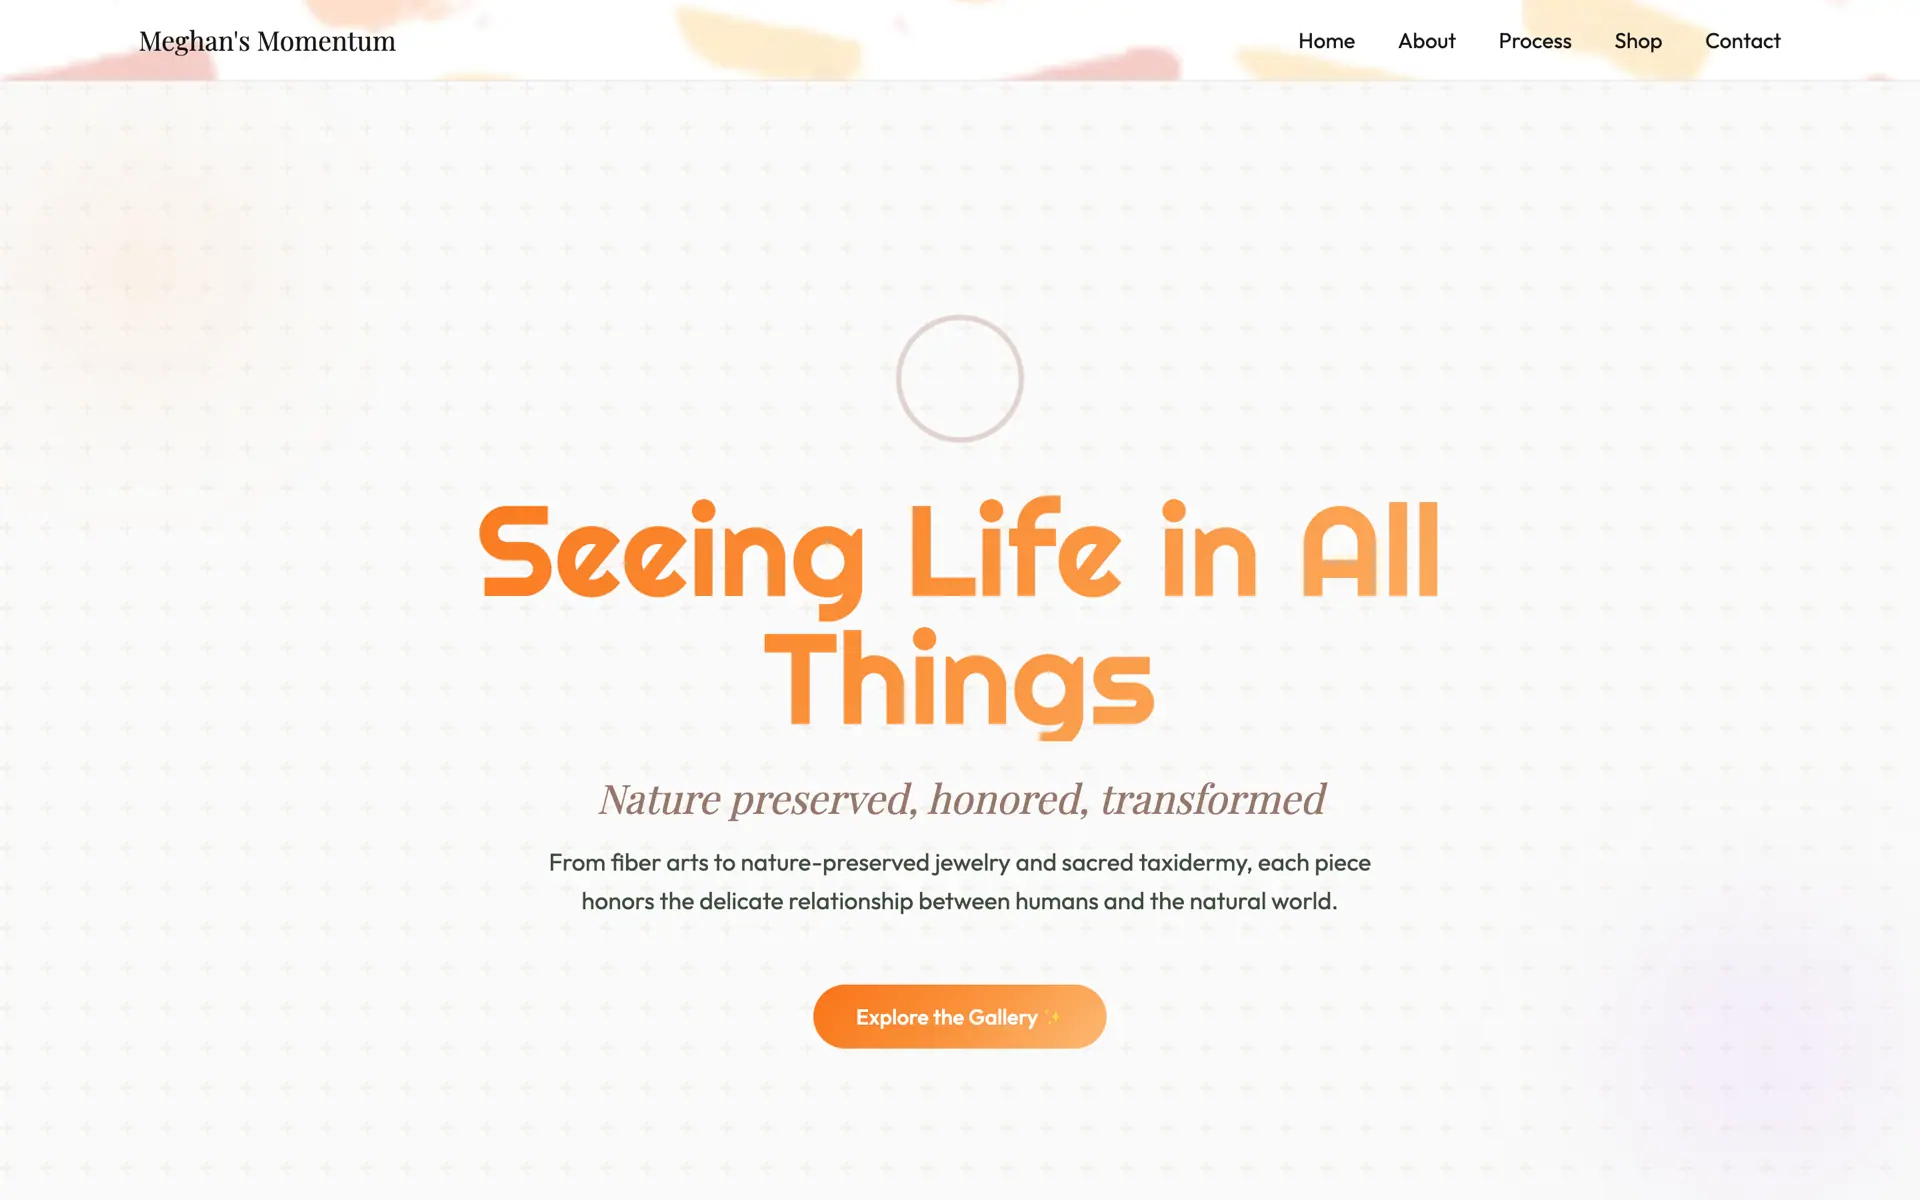
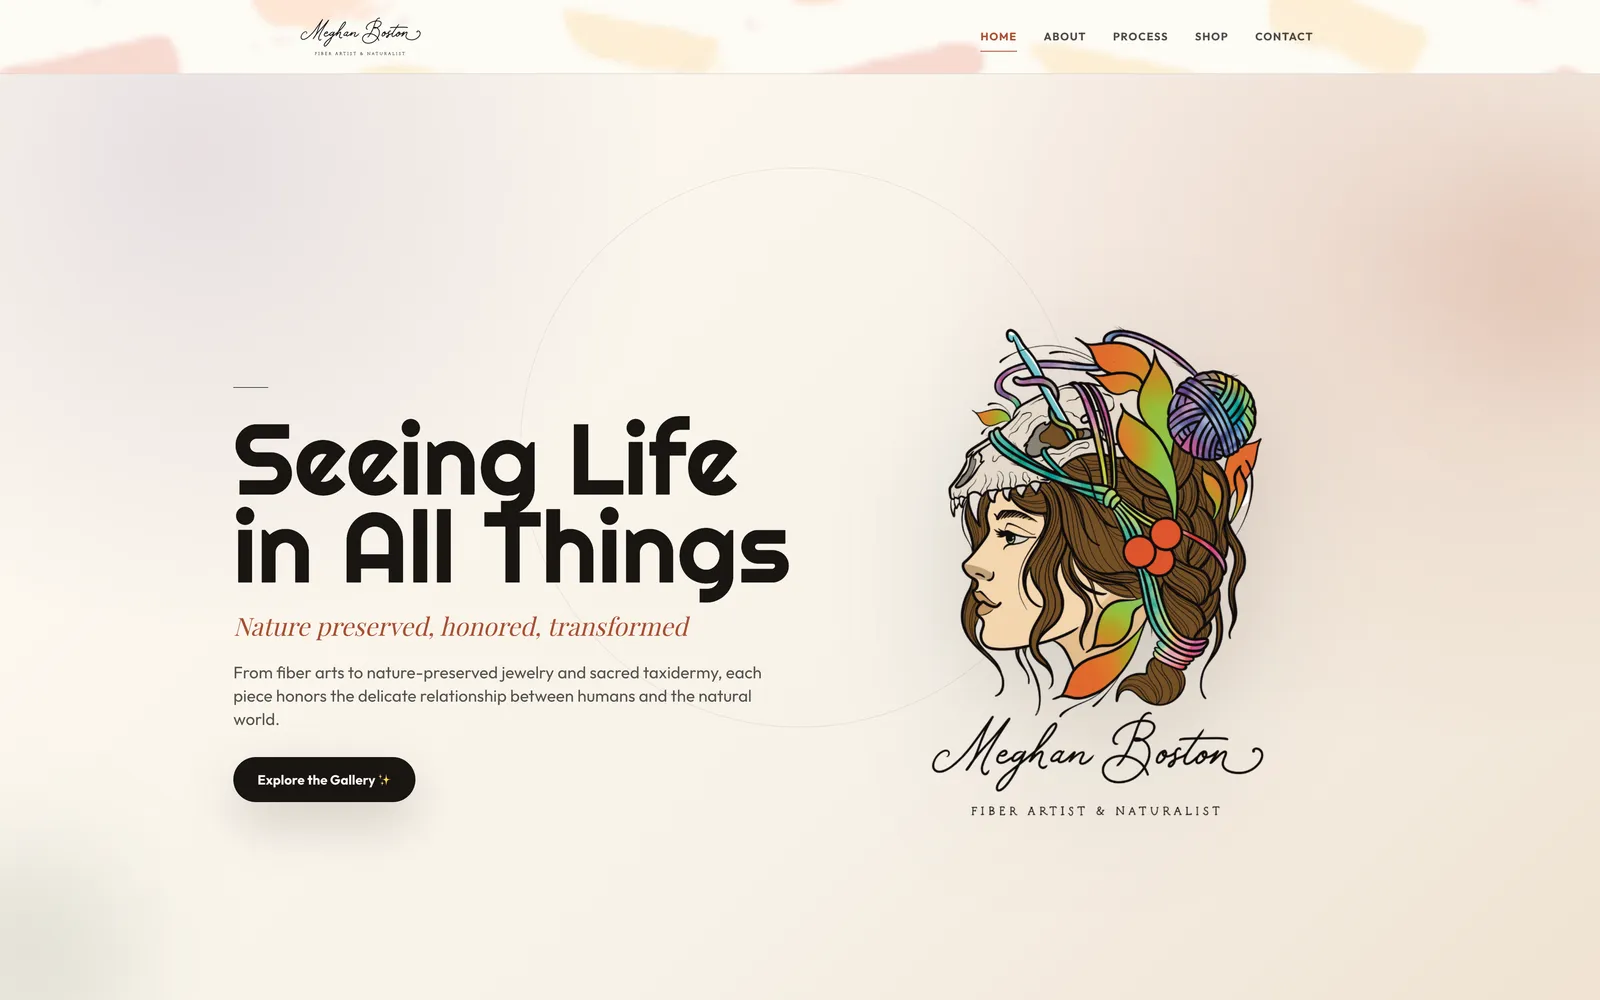
chore: refresh /works image assets
- Remove 13 unused/duplicate images from public/images (~16 MB): the
  unoptimized PNG sources whose .webp twins are used, a duplicate jpeg, and
  the /images project .webp duplicates of public/works/*.
- Drop the matching dead constants from imageAssets.ts (IMAGE_/BLUR_ for
  isolution, spa, medical, tecnical, meghans).
- Update Blue Moon, Meghan's and tecnical project screenshots (new 1600x1000
  WebP captures). isolution, spa and medical still pending new captures.

diff --git a/src/lib/imageAssets.ts b/src/lib/imageAssets.ts
@@ -1,11 +1,6 @@
 export const IMAGE_ABOUT_PORTRAIT = '/images/about-john-herrera.webp';
 export const IMAGE_ABOUT_CHEF_CUTOUT = '/images/about/about-chef-cutout.png';
 export const IMAGE_BLUE_MOON = '/images/blue-moon-hero.webp';
-export const IMAGE_ISOLUTION = '/images/isolution.webp';
-export const IMAGE_SPA = '/images/spa.webp';
-export const IMAGE_MEDICAL = '/images/medical.webp';
-export const IMAGE_TECNICAL = '/images/tecnicalapp.webp';
-export const IMAGE_MEGHANS = '/images/meghans.webp';
 export const IMAGE_CULINARY_PLATING = '/images/culinary-plating.webp';
 
 export const BLUR_ABOUT_PORTRAIT =
@@ -13,15 +8,5 @@ export const BLUR_ABOUT_PORTRAIT =
 export const BLUR_ABOUT_CHEF_CUTOUT = BLUR_ABOUT_PORTRAIT;
 export const BLUR_BLUE_MOON =
[1 lines of base64/hex data omitted]
-export const BLUR_ISOLUTION =
[1 lines of base64/hex data omitted]
-export const BLUR_SPA =
[1 lines of base64/hex data omitted]
-export const BLUR_MEDICAL =
[1 lines of base64/hex data omitted]
-export const BLUR_TECNICAL =
[1 lines of base64/hex data omitted]
-export const BLUR_MEGHANS =
[1 lines of base64/hex data omitted]
 export const BLUR_CULINARY_PLATING =
[1 lines of base64/hex data omitted]
